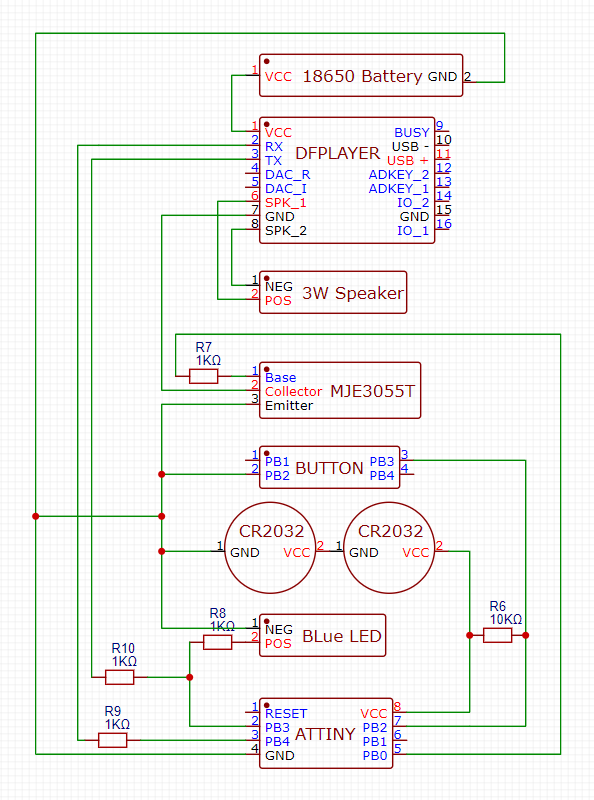
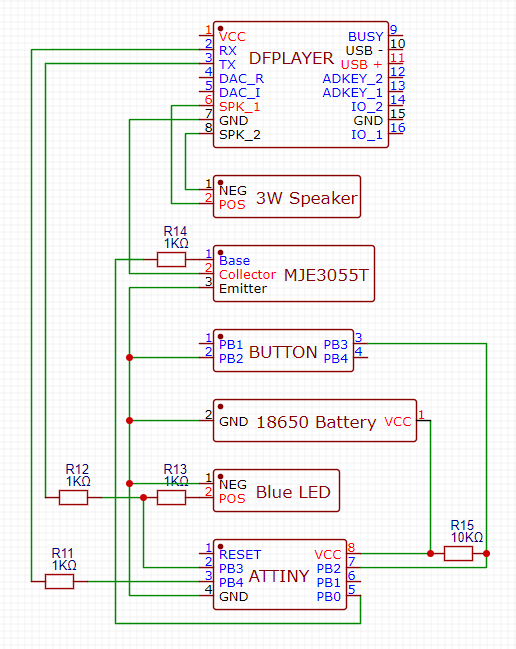
Improved hardware, added randomized playing, restructured main

Changed region(s): [[0.031, 0.0308, 0.9612, 0.9861]]

diff --git a/src/main.cpp b/src/main.cpp
@@ -1,8 +1,7 @@
 #include <Arduino.h>
 
-
-#include "df.hpp"
 #include "deep.hpp"
+#include "df.hpp"
 #include "test.hpp"
 #include "menu.hpp"
 
@@ -10,7 +9,7 @@ void setup() {
   // Setup Serials
   LOGSerial.begin(2400);
   DFSerial.begin(9600);
-  // Set focus for listening, writing works on all SoftwareSerial's
+  // Set focus for listening, writing always works on any SoftwareSerial
   LOGSerial.listen();
 
   // Button with interrupt
@@ -26,10 +25,25 @@ void setup() {
   // Save power
   disable();
 
+  // Randomizer
+  randomSetup();
+
   LOGSerial.print(F("Setup complete"));
 }
 
 void loop() {
+  // Sleep until interrupt
+  LOGSerial.print(F("\nSleeping"));
+  while (!buttonISRtriggered) {
+    deepSleep();
+    // Heartbeat
+    LOGSerial.print(F("."));
+  }
+  LOGSerial.println(F("Awoken"));
+  buttonISRtriggered = false;
+
+  // ---------------------------------
+
   // Track number of wakeups
   static unsigned long Nwakeups = 0;
   Nwakeups++;
@@ -40,7 +54,7 @@ void loop() {
   // Perform action
   switch (action) {
     case PLAY_TRACK_1:
-    play(1);
+    play(1, 6);
     break;
 
   case RUN_TESTS: {
@@ -55,6 +69,10 @@ void loop() {
     blink();
     break;
   
+  case PLAY_RANDOM_TRACK:
+    playRandom();
+    break;
+  
   case PRINT_N_WAKEUPS:
     LOGSerial.print(F("Wakeups: "));
     LOGSerial.println(Nwakeups);
@@ -63,14 +81,4 @@ void loop() {
   default:
     break;
   }
-
-  // Sleep until interrupt
-  LOGSerial.print(F("\nSleeping"));
-  while (!buttonISRtriggered) {
-    deepSleep();
-    // Heartbeat
-    LOGSerial.print(F("."));
-  }
-  LOGSerial.println(F("Awoken"));
-  buttonISRtriggered = false;
 }

diff --git a/src/df.hpp b/src/df.hpp
@@ -1,6 +1,7 @@
 #include <Arduino.h>
 
 #include <SoftwareSerial.h>
+#include <stdlib.h>
 
 SoftwareSerial DFSerial(3, 4); // RX, TX
 
@@ -23,7 +24,7 @@ uint8_t* createCommand(uint8_t command, uint8_t argumentHigh, uint8_t argumentLo
     return array;
 }
 
-void play(uint8_t track) {
+void play(uint8_t track, uint8_t duration) {  
   delay(1000);
   // Power on DFPlayer
   digitalWrite(0, HIGH);
@@ -35,8 +36,34 @@ void play(uint8_t track) {
   DFSerial.write(createCommand(0x03, 0x00, track), 10);
   delay(500);
   // Wait until track is finished
-  unsigned long start = millis();
-  while (millis() - start < 7000) {}
+  delay((duration+1)*1000); // Maybe work with mod 8 and deep sleep?
   // Power off DFPlayer
   digitalWrite(0, LOW);
+}
+
+void randomSetup() {
+  randomSeed(millis());
+}
+
+void randomShuffle(uint8_t* array, size_t n) {
+  for (size_t i = n - 1; i > 0; i--) {
+    size_t j = random(0, i + 1);
+    uint8_t temp = array[i];
+    array[i] = array[j];
+    array[j] = temp;
+  }
+}
+
+void playRandom() {
+  static uint8_t durations[] = {0, 6, 16, 4, 4, 5};
+  static uint8_t tracks[] = {1, 2, 3, 4, 5};
+  static uint8_t pointer = 99;
+  if (pointer > 4) {
+    pointer = 0;
+    randomShuffle(tracks, 5);
+  } else {
+    pointer++;
+  }
+  uint8_t track = tracks[pointer];
+  play(track, durations[track]);
 }

diff --git a/src/menu.hpp b/src/menu.hpp
@@ -1,9 +1,10 @@
 #include <Arduino.h>
 
 #define PLAY_TRACK_1 1
-#define PRINT_N_WAKEUPS 2
-#define RUN_TESTS 3
-#define BLINK_LED 4
+#define RUN_TESTS 2
+#define BLINK_LED 3
+#define PLAY_RANDOM_TRACK 4
+#define PRINT_N_WAKEUPS 5
 
 void blink() {
   digitalWrite(3, HIGH);
@@ -20,7 +21,7 @@ uint8_t getSelection() {
   uint8_t counter = 0;
   LOGSerial.print(F("Counting presses"));
   unsigned long timer = millis();
-  while (millis() - timer < 4000) {
+  while (millis() - timer < 6000) {
     if (buttonISRtriggered) {
       // Wait for button release
       while (buttonISRtriggered) {

diff --git a/src/test.hpp b/src/test.hpp
@@ -63,7 +63,7 @@ void test() {
       }
       if (byte1 == 0xF1) {
         LOGSerial.println("Test: Play track 1");
-        play(1);
+        play(1, 6);
         return;
       }
       